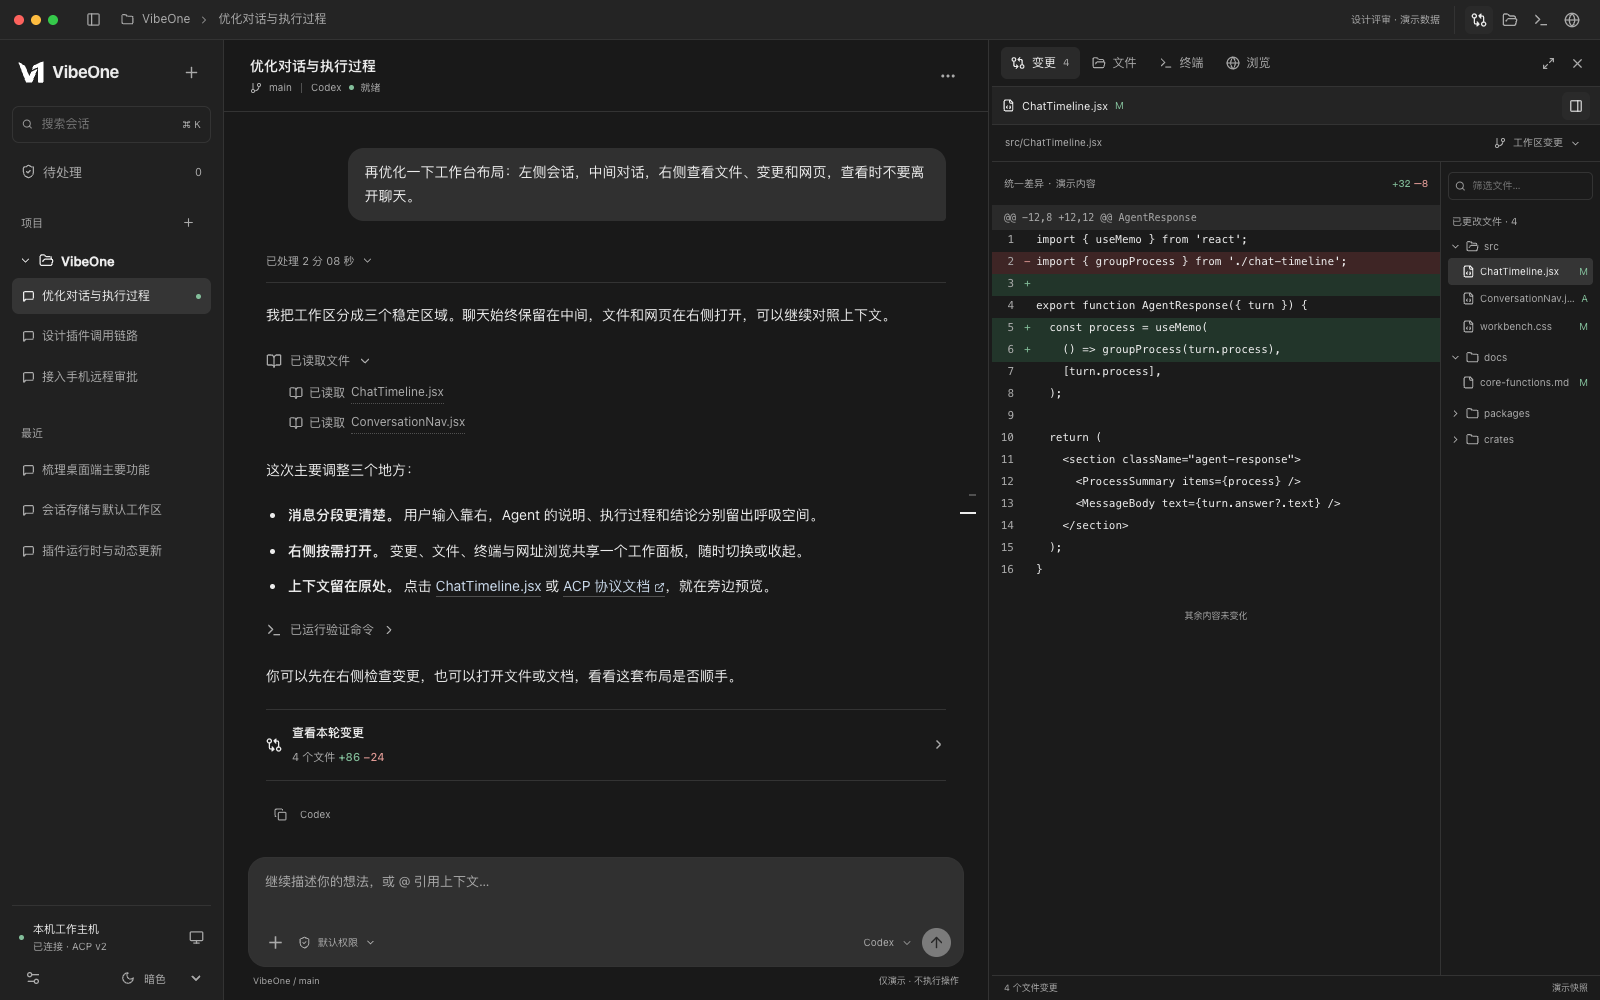
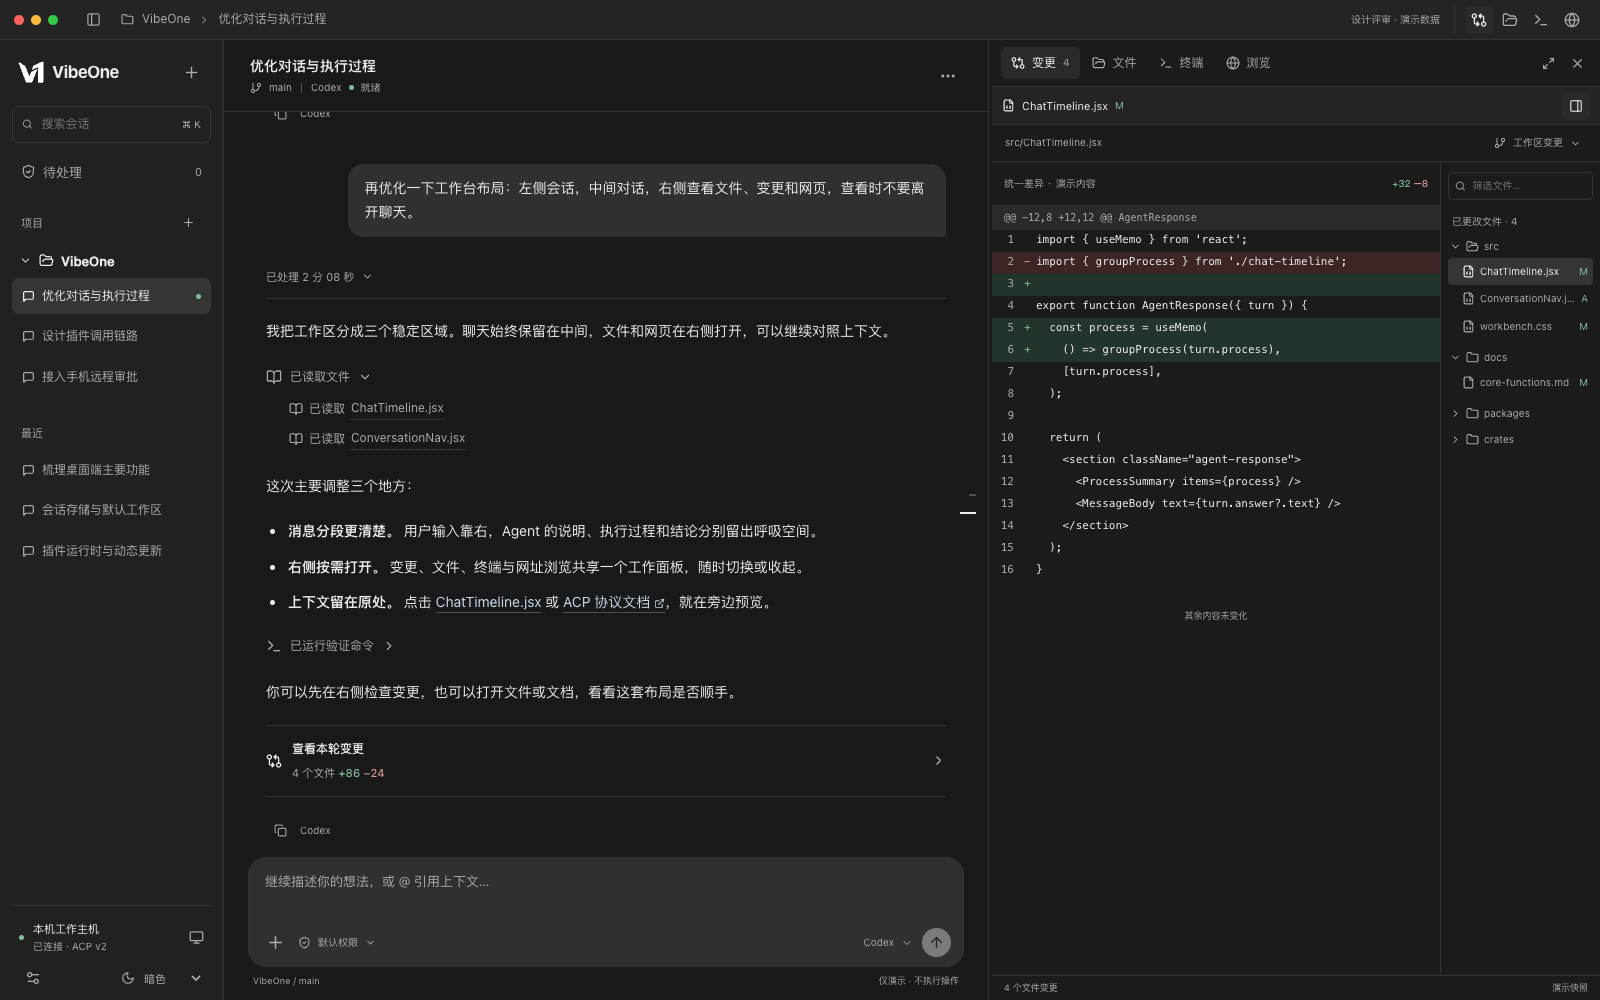
prototype: align initial conversation and file preview samples

Changed region(s): [[0.1562, 0.248, 0.5625, 0.775], [0.2188, 0.155, 0.5938, 0.217], [0.1562, 0.806, 0.2188, 0.837]]

diff --git a/prototype/src/review.jsx b/prototype/src/review.jsx
@@ -11,7 +11,8 @@ const fileName=path=>path.split('/').at(-1);
 function IconButton({label,children,onClick,active=false,...props}){return <button className={`icon-button ${active?'active':''}`} title={label} aria-label={label} aria-pressed={active} onClick={onClick} {...props}>{children}</button>}
 function Prototype(){
  const [theme,setTheme]=useState('dark'),[panel,setPanel]=useState(new URLSearchParams(location.search).get('panel') || 'changes'),[side,setSide]=useState(true),[wide,setWide]=useState(false),[panelWidth,setPanelWidth]=useState(null),[file,setFile]=useState(files[0]),[tree,setTree]=useState(true),[query,setQuery]=useState(''),[draft,setDraft]=useState(''),[sent,setSent]=useState([]),[url,setUrl]=useState('https://agentclientprotocol.com'),[loadedUrl,setLoadedUrl]=useState('https://agentclientprotocol.com'),[nav,setNav]=useState(1),[session,setSession]=useState('优化对话与执行过程'),[toast,setToast]=useState('');
- useEffect(()=>{const node=document.querySelector('.chat-scroll');node.scrollTop=node.scrollHeight;},[]);
+ useEffect(()=>{document.getElementById('round-1')?.scrollIntoView({block:'start'});},[]);
+ const displayedSource=file.endsWith('.css')?['.agent-response {','  display: flex;','  flex-direction: column;','  gap: 24px;','}', '', '.user-message {','  margin-left: auto;','  max-width: 88%;','  border-radius: 16px;','}']:file.endsWith('.md')?['# 对话与执行过程', '', '## 消息层级', '', '用户消息与 Agent 回复分别成段。', '执行过程保持原始事件顺序。', '', '## 侧边预览', '', '文件、变更、终端和网页按需打开。']:file.includes('ConversationNav')?['export function ConversationNav({ turns }) {','  return (','    <nav aria-label="对话导航">','      {turns.map(turn => (','        <TurnMarker key={turn.id} turn={turn} />','      ))}','    </nav>','  );','}']:source;
  const dark=theme==='system'?matchMedia('(prefers-color-scheme: dark)').matches:theme==='dark';
  const openPanel=name=>{setPanel(name);setWide(false);const next=new URL(location);next.searchParams.set('panel',name);history.replaceState({},'',next);};
  const openFile=path=>{setFile(path);openPanel('files');};
@@ -29,7 +30,7 @@ function Prototype(){
   </div><nav className="chat-index" aria-label="对话位置">{[0,1,...sent.map((_,i)=>i+2)].map(i=><button key={i} aria-label={`跳转到第 ${i+1} 轮`} className={nav===i?'current':''} onClick={()=>jump(i)}><span/></button>)}</nav></div>
   <div className="composer-area"><form className="composer" onSubmit={e=>{e.preventDefault();if(draft.trim()){setSent([...sent,draft]);setDraft('');setTimeout(()=>jump(sent.length+2),0);}}}><textarea aria-label="发送消息（仅演示）" value={draft} onChange={e=>setDraft(e.target.value)} placeholder="继续描述你的想法，或 @ 引用上下文…"/><div className="composer-toolbar"><div><IconButton label="添加附件" onClick={()=>notify('演示稿：附件入口')}><Plus size={19}/></IconButton><button type="button" className="permission" onClick={()=>notify('设计稿不修改实际权限')}><ShieldCheck size={13}/>默认权限<ChevronDown size={11}/></button></div><div><button type="button" className="model" onClick={()=>notify('Codex · 模型由真实会话配置决定')}>Codex <ChevronDown size={12}/></button><button className="send-button" aria-label="发送演示消息" disabled={!draft.trim()}><ArrowUp size={17}/></button></div></div></form><div className="composer-caption"><span>VibeOne / main</span><span>仅演示 · 不执行操作</span></div></div></main>
   {panel && <><div className="panel-resize" role="separator" tabIndex={0} aria-valuenow={panelWidth ?? Math.round(innerWidth*.38)} onKeyDown={e=>{if(['ArrowLeft','ArrowRight'].includes(e.key)){e.preventDefault();setPanelWidth(Math.max(360,Math.min(innerWidth-224-420,(panelWidth ?? innerWidth*.38)+(e.key==='ArrowLeft'?24:-24))));}}} aria-label="调整预览宽度" aria-orientation="vertical" onPointerDown={resize}/><aside className="context-panel"><header className="panel-tabs">{tabs.map(([key,label,Icon])=><button key={key} className={panel===key?'active':''} onClick={()=>openPanel(key)}><Icon size={14}/>{label}{key==='changes' && <span>4</span>}</button>)}<div className="panel-controls"><IconButton label={wide?'恢复面板宽度':'扩大预览'} onClick={()=>setWide(!wide)}><Maximize2 size={13}/></IconButton><IconButton label="收起右侧面板" onClick={()=>setPanel(null)}><X size={15}/></IconButton></div></header>
-  {(panel==='files' || panel==='changes') && <><div className="file-tabbar"><span><FileCode size={13}/>{fileName(file)}{panel==='changes' && <i>M</i>}</span><IconButton label="切换文件列表" active={tree} onClick={()=>setTree(!tree)}><PanelRight size={14}/></IconButton></div><div className="file-toolbar"><span title={file}>{file}</span><button onClick={()=>notify('演示分支：main，对比工作区未提交变更')}><GitBranch size={12}/>{panel==='changes'?'工作区变更':'main'}<ChevronDown size={11}/></button></div><div className={`file-workspace ${tree?'with-tree':''}`}><div className="code-view"><div className="code-label">{panel==='changes'?'统一差异 · 演示内容':'只读预览 · 演示内容'}{panel==='changes' && <span><em>+32</em> <b>−8</b></span>}</div>{panel==='changes' && <div className="diff-hunk">@@ −12,8 +12,12 @@ AgentResponse</div>}{source.map((line,i)=><div className={`code-line ${panel==='changes'?(i===1?'removed':i===2 || i===4 || i===5?'added':''):''}`} key={i}><span>{i+1}</span><span>{panel==='changes'?(i===1?'−':i===2||i===4||i===5?'+':' '):''}</span><code>{line || ' '}</code></div>)}<div className="code-end">{panel==='changes'?'其余内容未变化':'文件结束'}</div></div>{tree && <div className="file-tree"><label><Search size={12}/><input aria-label="筛选文件" placeholder="筛选文件…" onChange={e=>{document.querySelectorAll('.tree-file').forEach(node=>node.hidden=!node.textContent.toLowerCase().includes(e.target.value.toLowerCase()));}}/></label><div className="tree-heading">{panel==='changes'?'已更改文件 · 4':'项目文件'}</div><div className="tree-folder"><ChevronDown size={11}/><FolderOpen size={13}/>src</div>{files.slice(0,3).map((path,i)=><button key={path} className={`tree-file ${file===path?'selected':''}`} onClick={()=>setFile(path)} title={path}><FileCode size={13}/><span>{fileName(path)}</span><i>{i===1?'A':'M'}</i></button>)}<div className="tree-folder"><ChevronDown size={11}/><Folder size={13}/>docs</div><button className={`tree-file ${file===files[3]?'selected':''}`} onClick={()=>setFile(files[3])}><File size={13}/><span>core-functions.md</span><i>M</i></button><div className="tree-folder"><ChevronRight size={11}/><Folder size={13}/>packages</div><div className="tree-folder"><ChevronRight size={11}/><Folder size={13}/>crates</div></div>}</div><footer className="panel-status"><span>{panel==='changes'?'4 个文件变更':'UTF-8 · 只读'}</span><span>演示快照</span></footer></>}
+  {(panel==='files' || panel==='changes') && <><div className="file-tabbar"><span><FileCode size={13}/>{fileName(file)}{panel==='changes' && <i>M</i>}</span><IconButton label="切换文件列表" active={tree} onClick={()=>setTree(!tree)}><PanelRight size={14}/></IconButton></div><div className="file-toolbar"><span title={file}>{file}</span><button onClick={()=>notify('演示分支：main，对比工作区未提交变更')}><GitBranch size={12}/>{panel==='changes'?'工作区变更':'main'}<ChevronDown size={11}/></button></div><div className={`file-workspace ${tree?'with-tree':''}`}><div className="code-view"><div className="code-label">{panel==='changes'?'统一差异 · 演示内容':'只读预览 · 演示内容'}{panel==='changes' && <span><em>+32</em> <b>−8</b></span>}</div>{panel==='changes' && <div className="diff-hunk">@@ −12,8 +12,12 @@ AgentResponse</div>}{displayedSource.map((line,i)=><div className={`code-line ${panel==='changes'?(i===1?'removed':i===2 || i===4 || i===5?'added':''):''}`} key={i}><span>{i+1}</span><span>{panel==='changes'?(i===1?'−':i===2||i===4||i===5?'+':' '):''}</span><code>{line || ' '}</code></div>)}<div className="code-end">{panel==='changes'?'其余内容未变化':'文件结束'}</div></div>{tree && <div className="file-tree"><label><Search size={12}/><input aria-label="筛选文件" placeholder="筛选文件…" onChange={e=>{document.querySelectorAll('.tree-file').forEach(node=>node.hidden=!node.textContent.toLowerCase().includes(e.target.value.toLowerCase()));}}/></label><div className="tree-heading">{panel==='changes'?'已更改文件 · 4':'项目文件'}</div><div className="tree-folder"><ChevronDown size={11}/><FolderOpen size={13}/>src</div>{files.slice(0,3).map((path,i)=><button key={path} className={`tree-file ${file===path?'selected':''}`} onClick={()=>setFile(path)} title={path}><FileCode size={13}/><span>{fileName(path)}</span><i>{i===1?'A':'M'}</i></button>)}<div className="tree-folder"><ChevronDown size={11}/><Folder size={13}/>docs</div><button className={`tree-file ${file===files[3]?'selected':''}`} onClick={()=>setFile(files[3])}><File size={13}/><span>core-functions.md</span><i>M</i></button><div className="tree-folder"><ChevronRight size={11}/><Folder size={13}/>packages</div><div className="tree-folder"><ChevronRight size={11}/><Folder size={13}/>crates</div></div>}</div><footer className="panel-status"><span>{panel==='changes'?'4 个文件变更':'UTF-8 · 只读'}</span><span>演示快照</span></footer></>}
   {panel==='terminal' && <><div className="terminal-header"><span><span className="online-dot"/>Agent 执行记录</span><span>只读 <MoreHorizontal size={15}/></span></div><div className="terminal-content"><p className="terminal-muted">VibeOne · 演示输出，不连接 Shell</p><pre><span className="terminal-muted">~/VibeOne main</span>{'\n'}<strong>$ npm run desktop:test</strong>{'\n\n'}› desktop React view controls the live Host{'\n'}  messages · approvals · stop · themes{'\n\n'}<span className="terminal-success">✓ 1 test passed</span>{'\n'}  0 failed{'\n'}  Duration 32.1s{'\n\n'}<span className="terminal-muted">进程已退出 · exit code 0</span></pre><button className="terminal-link" onClick={()=>jump(1)}><MessageSquare size={13}/>定位到对应对话<ArrowRight size={13}/></button></div><footer className="panel-status"><span>此设计稿展示只读执行输出</span><span>未启动终端</span></footer></>}
   {panel==='browser' && <><form className="browser-toolbar" onSubmit={e=>{e.preventDefault();setLoadedUrl(url);notify('已切换地址演示；未访问外部站点');}}><IconButton label="返回文档首页" onClick={()=>{setLoadedUrl('https://agentclientprotocol.com');setUrl('https://agentclientprotocol.com');}}><ArrowLeft size={14}/></IconButton><IconButton label="刷新演示预览" onClick={()=>notify('演示预览已刷新')}><RotateCw size={13}/></IconButton><label><Globe size={12}/><input aria-label="网址" value={url} onChange={e=>setUrl(e.target.value)}/></label><button className="icon-button" aria-label="打开地址预览"><ArrowRight size={14}/></button></form><div className="browser-demo-note">网页预览示意 · 未加载外部站点</div><div className="web-document"><div className="doc-brand"><Code2 size={22}/>ACP <span>Documentation</span></div><div className="doc-nav">Introduction <span>Protocol</span> SDKs</div><h2>{loadedUrl.includes('agentclientprotocol')?'Agent Client Protocol':'网页内容预览'}</h2><p>将编码 Agent 与编辑器连接起来。</p><p className="doc-secondary">这里展示链接在侧边打开的阅读体验。正式版将根据站点支持情况加载网页；无法内嵌时保留“在浏览器打开”入口。</p><div className="doc-code">client ↔ agent<br/><span>JSON-RPC · stdio</span></div><h3>在对话旁边，保留上下文</h3><p className="doc-secondary">你可以边查看资料边继续与 Agent 沟通，无需离开当前会话。</p><button className="document-button" onClick={()=>notify(`目标地址：${loadedUrl}`)}>查看当前地址<ExternalLink size={13}/></button><div className="doc-address">{loadedUrl}</div></div><footer className="panel-status"><span>独立滚动 · 点击聊天链接在此打开</span><span>演示页面</span></footer></>}
   </aside></>}
